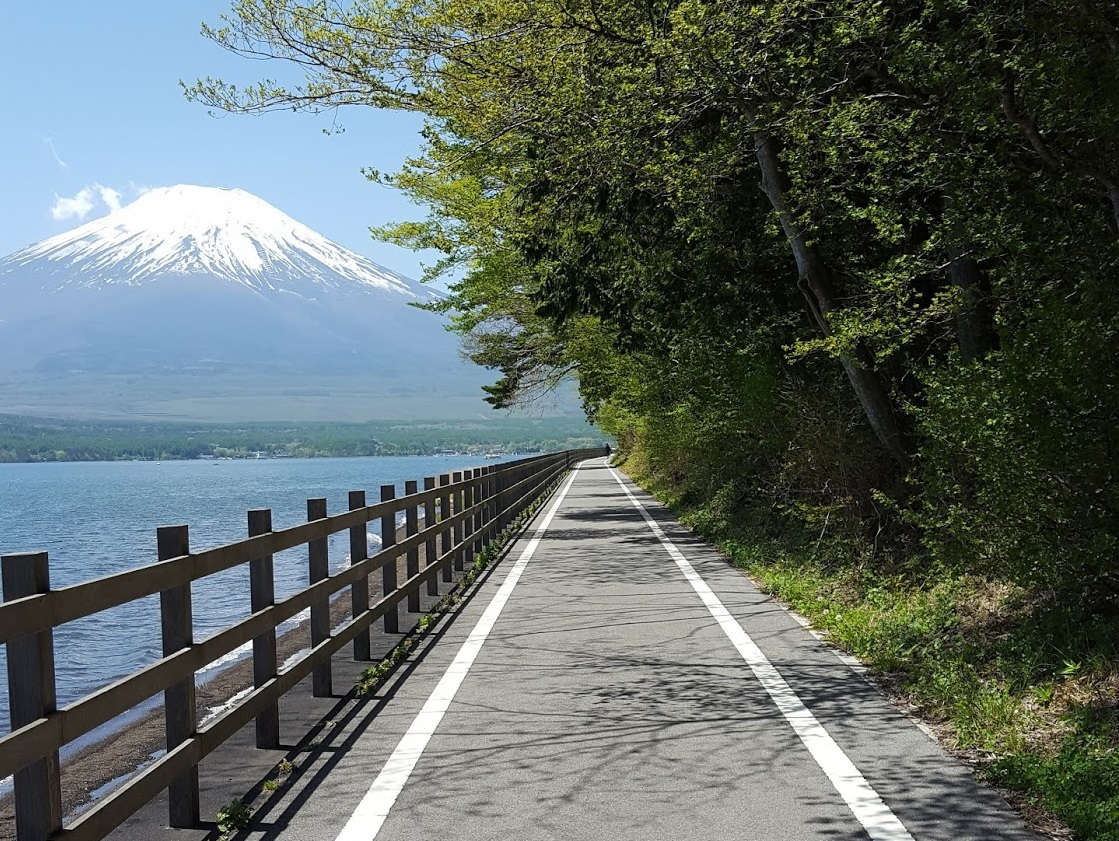
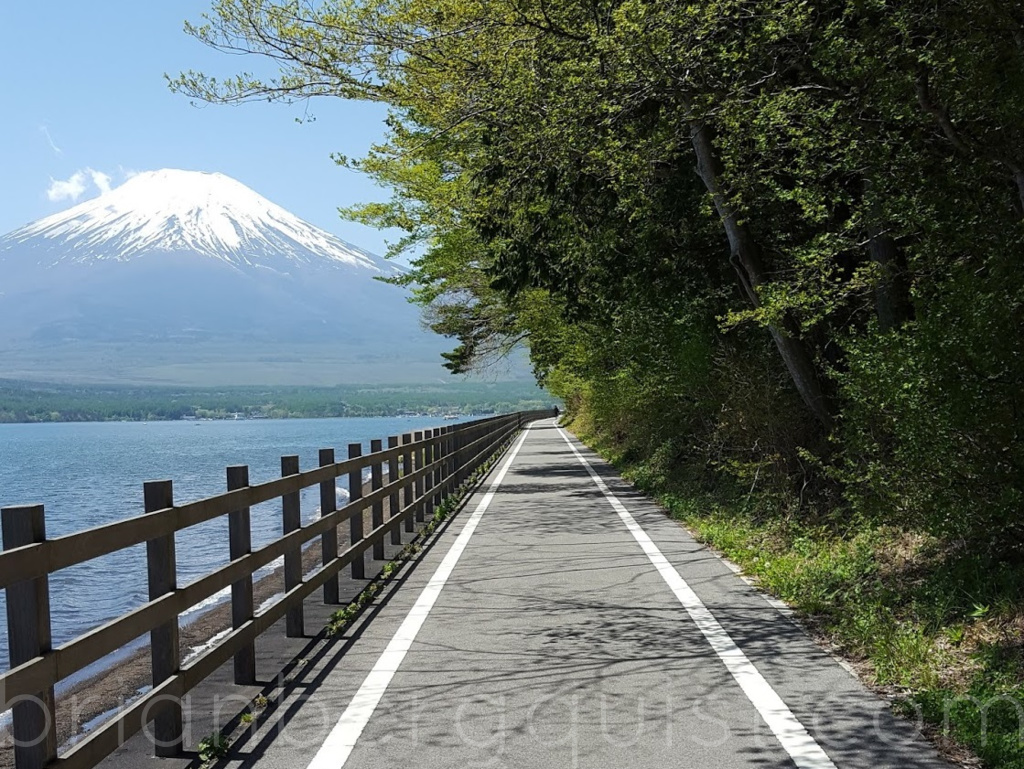
watermarked photos
saving my stuff

Changed region(s): [[0.0, 0.8739, 0.3125, 0.9675], [0.7812, 0.9051, 1.0, 0.9675], [0.375, 0.9051, 0.4062, 0.9363]]

diff --git a/photography.html b/photography.html
@@ -19,7 +19,7 @@
 
 				<!-- Header -->
 					<header id="header">
-						<h1><a href="index.html">Solid State</a></h1>
+						<h1><a href="index.html">Photography</a></h1>
 						<nav>
 							<a href="#menu">Menu</a>
 						</nav>
@@ -44,8 +44,8 @@
 					<section id="wrapper">
 						<header>
 							<div class="inner">
-								<h2>Generic</h2>
-								<p>Phasellus non pulvinar erat. Fusce tincidunt nisl eget ipsum.</p>
+								<h2>Photography</h2>
+								<p>From the Pacific Northwest to Tokyo</p>
 							</div>
 						</header>
 
@@ -53,39 +53,29 @@
 							<div class="wrapper">
 								<div class="inner">
 
-									<h3 class="major">Lorem ipsum dolor</h3>
-									<p>Morbi mattis mi consectetur tortor elementum, varius pellentesque velit convallis. Aenean tincidunt lectus auctor mauris maximus, ac scelerisque ipsum tempor. Duis vulputate ex et ex tincidunt, quis lacinia velit aliquet. Duis non efficitur nisi, id malesuada justo. Maecenas sagittis felis ac sagittis semper. Curabitur purus leo donec vel dolor at arcu tincidunt bibendum. Interdum et malesuada fames ac ante ipsum primis in faucibus. Fusce ut aliquet justo. Donec id neque ipsum. Integer eget ultricies odio. Nam vel ex a orci fringilla tincidunt. Aliquam eleifend ligula non velit accumsan cursus. Etiam ut gravida sapien.</p>
+									<h3 class="major">Sample Portfolio</h3>
+									<p>Morbi mattis mi consectetur tortor elementum, varius pellentesque velm vel ex a orci fringilla tincidunt. Aliquam eleifend ligula non velit accumsan cursus. Etiam ut gravida sapien.</p>
 
-									<p>Vestibulum ultrices risus velit, sit amet blandit massa auctor sit amet. Sed eu lectus sem. Phasellus in odio at ipsum porttitor mollis id vel diam. Praesent sit amet posuere risus, eu faucibus lectus. Vivamus ex ligula, tempus pulvinar ipsum in, auctor porta quam. Proin nec commodo, vel scelerisque nisi scelerisque. Suspendisse id quam vel tortor tincidunt suscipit. Nullam auctor orci eu dolor consectetur, interdum ullamcorper ante tincidunt. Mauris felis nec felis elementum varius.</p>
 
-									<h3 class="major">Vitae phasellus</h3>
-									<p>Cras mattis ante fermentum, malesuada neque vitae, eleifend erat. Phasellus non pulvinar erat. Fusce tincidunt, nisl eget mattis egestas, purus ipsum consequat orci, sit amet lobortis lorem lacus in tellus. Sed ac elementum arcu. Quisque placerat auctor laoreet.</p>
-
-									<section class="features">
-										<article>
-											<a href="#" class="image"><img src="images/pic04.jpg" alt="" /></a>
-											<h3 class="major">Sed feugiat lorem</h3>
-											<p>Lorem ipsum dolor sit amet, consectetur adipiscing vehicula id nulla dignissim dapibus ultrices.</p>
-											<a href="#" class="special">Learn more</a>
-										</article>
-										<article>
-											<a href="#" class="image"><img src="images/pic05.jpg" alt="" /></a>
-											<h3 class="major">Nisl placerat</h3>
-											<p>Lorem ipsum dolor sit amet, consectetur adipiscing vehicula id nulla dignissim dapibus ultrices.</p>
-											<a href="#" class="special">Learn more</a>
-										</article>
-										<article>
-											<a href="#" class="image"><img src="images/pic04.jpg" alt="" /></a>
-											<h3 class="major">Sed feugiat lorem</h3>
-											<p>Lorem ipsum dolor sit amet, consectetur adipiscing vehicula id nulla dignissim dapibus ultrices.</p>
-											<a href="#" class="special">Learn more</a>
-										</article>
-										<article>
-											<a href="#" class="image"><img src="images/pic05.jpg" alt="" /></a>
-											<h3 class="major">Nisl placerat</h3>
-											<p>Lorem ipsum dolor sit amet, consectetur adipiscing vehicula id nulla dignissim dapibus ultrices.</p>
-											<a href="#" class="special">Learn more</a>
-										</article>
+									<section>
+										<h3 class="major">Image</h3>
+										<h4>Fit</h4>
+										<div class="box alt">
+											<div class="row gtr-uniform">
+												<div class="col-12"><span class="image fit"><img src="images/izu.jpg" alt="" /></span></div>
+												<div class="col-6"><span class="image fit"><img src="images/pic05.jpg" alt="" /></span></div>
+												<div class="col-6"><span class="image fit"><img src="images/pic06.jpg" alt="" /></span></div>
+												<div class="col-6"><span class="image fit"><img src="images/pic07.jpg" alt="" /></span></div>
+												<div class="col-6"><span class="image fit"><img src="images/pic07.jpg" alt="" /></span></div>
+												<div class="col-6"><span class="image fit"><img src="images/pic05.jpg" alt="" /></span></div>
+												<div class="col-6"><span class="image fit"><img src="images/pic06.jpg" alt="" /></span></div>
+												<div class="col-6"><span class="image fit"><img src="images/pic06.jpg" alt="" /></span></div>
+												<div class="col-6"><span class="image fit"><img src="images/pic07.jpg" alt="" /></span></div>
+											</div>
+										</div>
+										<h4>Left &amp; Right</h4>
+										<p><span class="image left"><img src="images/pic01.jpg" alt="" /></span>Morbi mattis mi consectetur tortor elementum, varius pellentesque velit convallis. Aenean tincidunt lectus auctor mauris maximus, ac scelerisque ipsum tempor. Duis vulputate ex et ex tincidunt, quis lacinia velit aliquet. Duis non efficitur nisi, id malesuada justo. Maecenas sagittis felis ac sagittis semper. Curabitur purus leo, tempus sed finibus eget, fringilla quis risus. Maecenas et lorem quis sem varius sagittis et a est. Maecenas iaculis iaculis sem. Donec vel dolor at arcu tincidunt bibendum. Interdum et malesuada fames ac ante ipsum primis in faucibus. Fusce ut aliquet justo. Donec id neque ipsum. Integer eget ultricies odio. Nam vel ex a orci fringilla tincidunt. Aliquam eleifend ligula non velit accumsan cursus. Etiam ut gravida sapien. Morbi mattis mi consectetur tortor elementum, varius pellentesque velit convallis. Aenean tincidunt lectus auctor mauris maximus, ac scelerisque ipsum tempor. Duis vulputate ex et ex tincidunt, quis lacinia velit aliquet. Duis non efficitur nisi, id malesuada justo. Maecenas sagittis felis ac sagittis semper. Curabitur purus leo, tempus sed finibus eget, fringilla quis risus. Maecenas et lorem quis sem varius sagittis et a est. Maecenas iaculis iaculis sem. Donec vel dolor at arcu tincidunt bibendum. Interdum et malesuada fames ac ante ipsum primis in faucibus. Fusce ut aliquet justo. Donec id neque ipsum. Integer eget ultricies odio. Nam vel ex a orci fringilla tincidunt. Aliquam eleifend ligula non velit accumsan cursus. Etiam ut gravida sapien.</p>
+										<p><span class="image right"><img src="images/pic02.jpg" alt="" /></span>Vestibulum ultrices risus velit, sit amet blandit massa auctor sit amet. Sed eu lectus sem. Phasellus in odio at ipsum porttitor mollis id vel diam. Praesent sit amet posuere risus, eu faucibus lectus. Vivamus ex ligula, tempus pulvinar ipsum in, auctor porta quam. Proin nec dui cursus, posuere dui eget interdum. Fusce lectus magna, sagittis at facilisis vitae, pellentesque at etiam. Quisque posuere leo quis sem commodo, vel scelerisque nisi scelerisque. Suspendisse id quam vel tortor tincidunt suscipit. Nullam auctor orci eu dolor consectetur, interdum ullamcorper ante tincidunt. Mauris felis nec felis elementum varius. Nam sapien ante, varius in pulvinar vitae, rhoncus id massa. Donec varius ex in mauris ornare, eget euismod urna egestas. Etiam lacinia tempor ipsum, sodales porttitor justo. Aliquam dolor quam, semper in tortor eu, volutpat efficitur quam. Fusce nec fermentum nisl. Aenean erat diam, tempus aliquet erat. Etiam iaculis nulla ipsum, et pharetra libero rhoncus ut. Phasellus rutrum cursus velit, eget condimentum nunc blandit vel. In at pulvinar lectus. Morbi diam ante, vulputate et imperdiet eget, fermentum non dolor. Ut eleifend sagittis tincidunt. Sed viverra commodo mi, ac rhoncus justo. Duis neque ligula, elementum ut enim vel, posuere finibus justo. Vivamus facilisis maximus nibh quis pulvinar. Quisque hendrerit in ipsum id tellus facilisis fermentum. Proin mauris dui.</p>
 									</section>
 
 								</div>
